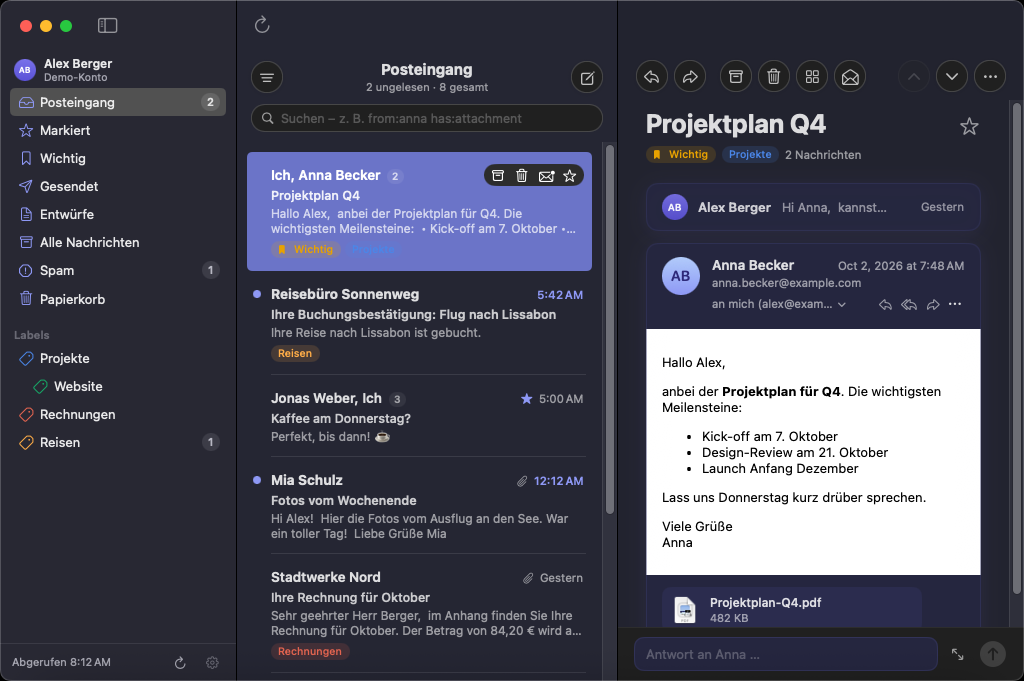
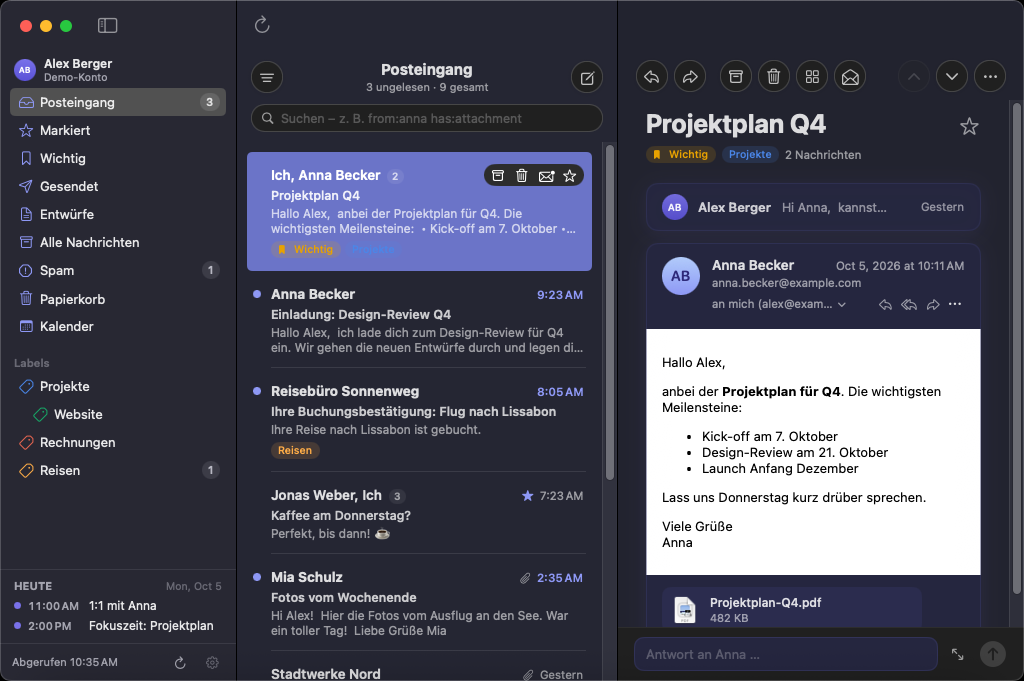
README: complete feature overview, shortcut table, current screenshots
Claude-Session: https://claude.ai/code/session_01UWtuT2Rb8Y4LbjtU9cNcHA

diff --git a/README.md b/README.md
@@ -6,30 +6,97 @@ und nicht über IMAP und nicht über eine eingebettete gmail.com-Seite.
 
 ## Funktionen
 
-- **Ohne Konto ausprobieren**: Im Willkommensbildschirm öffnet „Erst mal ohne Konto ausprobieren“ ein Demo-Postfach mit Beispiel-E-Mails.
+![MailMeG mit Posteingang und Konversation](Design/Screenshots/landing-de-inbox-light.png)
 
-- **Mehrere Gmail-Konten** gleichzeitig, mit Anmeldung per Google OAuth (PKCE) im System-Anmeldefenster
-- **Tokens im macOS-Schlüsselbund**, Passwörter sieht die App nie
-- **Seitenleiste** mit Posteingang, Markiert, Wichtig, Gesendet, Entwürfe, Alle Nachrichten, Spam, Papierkorb und eigenen Labels (verschachtelt), jeweils mit Ungelesen-Zählern
-- **Konversationsansicht** wie in Gmail, ältere gelesene Nachrichten werden eingeklappt
-- **Sichere HTML-Darstellung**: JavaScript ist aus und externe Inhalte (Tracking-Pixel) sind standardmäßig blockiert, per Klick oder Einstellung lassen sie sich nachladen. Links öffnen im Browser.
-- **Inline-Bilder** (`cid:`) und **Anhänge**: öffnen oder sichern
-- **Suche** mit der vollen Gmail-Syntax (`from:`, `has:attachment`, `older_than:` …)
-- **Aktionen**: Archivieren, Löschen, Wiederherstellen, Spam, Gelesen/Ungelesen, Stern
-- **Rich-Text-Editor**: Fett, Kursiv, Unterstrichen, Durchgestrichen, Listen, Links, Schriftgröße und Farbe – verschickt als HTML mit der Gmail-Signatur
-- **Empfängerdetails** mit der genauen Zieladresse (auch bei „mich“), **Quelltext** (⌥⌘U) und **alle Header** (⇧⌘H) jeder E-Mail
-- **Abrufintervall** einstellbar (30 Sekunden bis 1 Stunde oder manuell)
-- **Design im Stil von Airmail** mit Glas-Oberflächen und runden Buttons, Avatare in der Liste optional
-- **Google Kalender**: Tages-, Wochen- und Monatsansicht mit Mini-Monat und Agenda, „Heute“ in der Seitenleiste,
-  Einladungen in E-Mails mit Zusagen/Vielleicht/Absagen, Termine anlegen (auch direkt aus einer E-Mail, ⌥⌘E),
-  bearbeiten, löschen und per Drag & Drop verschieben
-- **Google Drive**: große Dateien, ZIPs und von Gmail gesperrte Dateitypen gehen als Drive-Link raus –
-  per Button oder automatisch, Freigabe für „Jeder mit dem Link“ oder „Nur Empfänger“
-- **Entwürfe** werden beim Schreiben automatisch in Gmail gesichert und lassen sich jederzeit weiterbearbeiten
-- **Verfassen, Antworten, Allen antworten, Weiterleiten** inklusive Anhängen. Antworten landen im richtigen Gmail-Thread (`threadId`, `In-Reply-To`, `References`).
-- **Neue Mails**: Polling über die History-API, Dock-Symbol mit Zähler ungelesener E-Mails
-- **Mitteilungen**: Klick öffnet die Konversation, Antworten, Als gelesen markieren und Archivieren direkt in der Mitteilung
-- **Tastaturkürzel** wie in Apple Mail: ⌘N, ⌘R, ⇧⌘R, ⇧⌘F, ⌃⌘A, ⌘⌫, ⇧⌘U, ⇧⌘L, ⇧⌘N, ⌥⌘U, ⇧⌘H, ⌥⌘↑/↓, ⌥⌘K (Kalender), ⌥⌘N (neuer Termin), ⌥⌘E (Termin aus E-Mail)
+**Ohne Konto ausprobieren:** Im Willkommensbildschirm öffnet „Erst mal ohne Konto ausprobieren“ ein Demo-Postfach
+mit Beispiel-E-Mails, Kalender und Einladung.
+
+### Postfach und Lesen
+
+- **Mehrere Gmail-Konten** gleichzeitig, jeweils mit allen Ordnern: Posteingang, Markiert, Wichtig, Gesendet,
+  Entwürfe, Alle Nachrichten, Spam, Papierkorb und eigene Labels (auch verschachtelt), mit Ungelesen-Zählern
+- **Konversationsansicht** wie in Gmail: ältere gelesene Nachrichten sind eingeklappt, Labels und
+  „Wichtig“ stehen als farbige Chips in Liste und Konversation
+- **Suche** mit der vollen Gmail-Syntax (`from:`, `has:attachment`, `older_than:` …) und Filter „Nur ungelesene“
+- **Aktionen**: Antworten, Allen antworten, Weiterleiten, Archivieren, Löschen, Wiederherstellen, Spam,
+  Gelesen/Ungelesen, Markieren, Labels zuweisen; per Hover direkt in der Liste, per Rechtsklick oder Tastatur
+- **Vorherige/nächste Konversation** mit ⌥⌘↑/↓ oder den Pfeil-Buttons
+- **Empfängerdetails**: die genaue Adresse, an die eine E-Mail ging (auch bei „mich“), plus Von, Antwort an,
+  An, Cc, Bcc, Zugestellt an und Datum
+- **Quelltext** (⌥⌘U) und **alle Header** (⇧⌘H) in einem eigenen Fenster, mit Filter, Kopieren und Sichern als `.eml`
+- **Anhänge und Inline-Bilder** öffnen oder sichern
+- **Umlaute und Sonderzeichen** werden richtig angezeigt, auch wenn der Absender einen falschen Zeichensatz angibt
+
+### Schreiben
+
+- **Rich-Text-Editor**: Fett, Kursiv, Unterstrichen, Durchgestrichen, Aufzählungen, nummerierte Listen, Links,
+  Schriftgröße und Farbe – verschickt als HTML mit Textalternative
+- **Absender wählen**: alle in Gmail unter „Senden als“ hinterlegten Adressen; Antworten gehen automatisch von der
+  Adresse raus, an die die E-Mail ging
+- **Signaturen aus Gmail**, auch bei Antworten, und beim Absenderwechsel automatisch getauscht
+- **Antwort über oder unter dem Zitat** (einstellbar), Antworten landen im richtigen Gmail-Thread
+- **Schnellantwort** direkt unter der Konversation (⌘↩ sendet)
+- **Entwürfe** werden beim Schreiben automatisch in Gmail gesichert (⌘S sofort) und lassen sich in MailMeG,
+  im Web oder auf dem Handy weiterbearbeiten
+- **Anhänge** per Button; Weiterleitungen übernehmen die Anhänge der Original-E-Mail
+
+### Google Drive
+
+- **Große Dateien und ZIPs als Drive-Link** über den Button „Google Drive“, mit Fortschrittsanzeige
+- **Automatisch über Drive**, wenn Anhänge die E-Mail über Gmails Größenlimit bringen würden oder Gmail den
+  Dateityp sperrt (z. B. `.dmg`, `.exe`, `.iso`)
+- **Freigabe** für „Jeder mit dem Link“ oder „Nur Empfänger“; die Dateien liegen im Drive-Ordner „MailMeG-Anhänge“
+- MailMeG nutzt nur die Berechtigung `drive.file` und sieht damit ausschließlich die Dateien, die es selbst hochlädt
+
+### Google Kalender
+
+![Kalender in der Wochenansicht](Design/Screenshots/landing-de-calendar-light.png)
+
+- **Kalender in der Seitenleiste** (⌥⌘K) mit Mini-Monat, Agenda der nächsten Tage und **Tages-, Wochen- und
+  Monatsansicht**, in den Farben deiner Google-Kalender; einzelne Kalender lassen sich ausblenden
+- **„Heute“** unten in der Seitenleiste: die restlichen Termine des Tages auf einen Blick
+- **Termine anlegen** (⌥⌘N), auch **direkt aus einer E-Mail** (⌥⌘E) mit Betreff und Beteiligten als Gäste
+- **Termine bearbeiten, löschen und per Drag & Drop verschieben** (15-Minuten-Schritte, in der Woche auch auf
+  andere Tage); Gäste werden auf Wunsch informiert
+- **Einladungen in E-Mails** als Karte mit Datum, Ort und Zusagen/Vielleicht/Absagen
+- **Termindetails** mit Ort, Google-Meet-Link, Teilnehmern und ihren Antworten
+
+### Mitteilungen und Abruf
+
+- **Neue E-Mails** über die Gmail-History-API; **Abrufintervall** einstellbar von 30 Sekunden bis 1 Stunde
+  oder nur manuell (⇧⌘N), letzte Abrufzeit in der Seitenleiste
+- **macOS-Mitteilungen**: Klick öffnet die Konversation; Antworten, Als gelesen markieren und Archivieren direkt
+  in der Mitteilung
+- **Dock-Symbol mit Zähler** ungelesener E-Mails, sofort aktualisiert (abschaltbar)
+
+### Design und Bedienung
+
+- **Native macOS-App** (SwiftUI, AppKit, WebKit) im Stil von Airmail: Glas-Oberflächen, runde Buttons,
+  aufgeräumte Liste (Avatare optional), Hell- und Dunkelmodus
+- **Deutsch und Englisch**, je nach Systemsprache
+- **Tastaturkürzel** wie in Apple Mail (siehe unten)
+
+### Datenschutz und Sicherheit
+
+- MailMeG spricht **direkt mit Google** – kein eigener Server, kein IMAP, keine eingebettete gmail.com-Seite
+- **Anmeldung per Google OAuth (PKCE)** im System-Anmeldefenster; MailMeG sieht dein Passwort nie
+- **Tokens im macOS-Schlüsselbund**, die App läuft in der macOS-Sandbox
+- **Sichere HTML-Darstellung**: JavaScript ist aus, externe Inhalte (Tracking-Pixel) sind blockiert und lassen
+  sich per Klick oder Einstellung laden; Links öffnen im Browser
+
+### Tastaturkürzel
+
+| Kürzel | Aktion | Kürzel | Aktion |
+|---|---|---|---|
+| ⌘N | Neue E-Mail | ⌥⌘N | Neuer Termin |
+| ⌘R | Antworten | ⇧⌘R | Allen antworten |
+| ⇧⌘F | Weiterleiten | ⌘↩ | Senden |
+| ⌃⌘A | Archivieren | ⌘⌫ | In den Papierkorb |
+| ⇧⌘U | Gelesen/Ungelesen | ⇧⌘L | Markieren |
+| ⇧⌘J | Als Spam melden | ⇧⌘N | Neue E-Mails abrufen |
+| ⌥⌘↑ / ⌥⌘↓ | Vorherige/nächste Konversation | ⌥⌘K | Kalender |
+| ⌥⌘E | Termin aus E-Mail | ⌥⌘U / ⇧⌘H | Quelltext / Header |
+| ⌘S | Entwurf sichern | ⌘B / ⌘I / ⌘U / ⌘K | Fett / Kursiv / Unterstrichen / Link |
 
 ## Installation (fertige DMG, ohne Xcode)
 
@@ -109,7 +176,8 @@ Jeder Push baut die App außerdem per GitHub Actions auf macOS, führt Unit- und
 
 ## Screenshots für die Website
 
-Beispielbilder des Demo-Postfachs (Deutsch/Englisch, hell/dunkel, Verfassen, Header, Einstellungen) liegen in
+Beispielbilder des Demo-Postfachs (Deutsch/Englisch, hell/dunkel: Posteingang, Kalender in Woche und Monat,
+Einladung, Verfassen, Header, Einstellungen) liegen in
 `Design/Screenshots/` und werden bei jedem Push von der CI unter
 `https://github.com/gummipunkt/mailmeg/releases/download/screenshots/landing-de-inbox-light.png` usw. aktualisiert.
 Die CI hat nur ein 1024×768-Display; Retina-Bilder in doppelter Auflösung erzeugt `make screenshots` auf dem eigenen Mac.
@@ -137,17 +205,27 @@ MailMeG gibt es auf Deutsch und Englisch. Die App folgt der Reihenfolge unter
 
 ## Roadmap
 
-- Offline-Cache (SwiftData) und Delta-Sync über `history.list`
-- Mehrfachauswahl in der Liste, Labels zuweisen per Drag & Drop
+- Fester OAuth-Client in der App, damit niemand ein eigenes Google-Cloud-Projekt braucht
+  (setzt Googles Prüfung der App voraus)
+- Signierung und Notarisierung mit einem Apple-Developer-Zertifikat
+- Offline-Cache und Delta-Sync über `history.list`
+- Mehrfachauswahl in der Liste, Labels per Drag & Drop
 - Gmail-Kategorien (Allgemein, Werbung, Soziale Netzwerke …)
 
 ## English
 
 MailMeG (“Mail Me Google Mail”) is a native Gmail client for macOS (SwiftUI) that talks to the Gmail REST API directly instead of
 wrapping the Gmail website. The interface is available in English and German and follows your macOS language
-order. Highlights: multiple accounts, Gmail aliases and signatures, drafts synced with Gmail, a rich text
-editor, message source and headers, Google Calendar (day/week/month view, invitations with RSVP, create, edit, move and delete events),
-large files via Google Drive links, configurable fetch interval and an Airmail-style glass design.
+order.
+
+**Features:** multiple Gmail accounts with all folders and labels · Gmail-style conversations with label chips ·
+full Gmail search syntax · archive, delete, spam, star, labels, read/unread · exact recipient details, message source
+and all headers · rich text editor · Gmail “Send mail as” addresses and signatures · reply above or below the quote ·
+quick reply · drafts synced with Gmail · large files, ZIPs and blocked file types sent as Google Drive links ·
+Google Calendar with day, week and month view, today list, invitations with Accept/Maybe/Decline, events created
+from emails, edited, deleted and moved by drag and drop · macOS notifications with actions · unread count on the Dock
+icon · configurable fetch interval · Airmail-style glass design with light and dark mode · Apple Mail keyboard shortcuts ·
+OAuth sign-in, tokens in the keychain, sandboxed app, remote content blocked by default.
 
 1. Download **[MailMeG.dmg](https://github.com/gummipunkt/mailmeg/releases/latest/download/MailMeG.dmg)**
    (universal, macOS 14 or later) and drag MailMeG into *Applications*.
